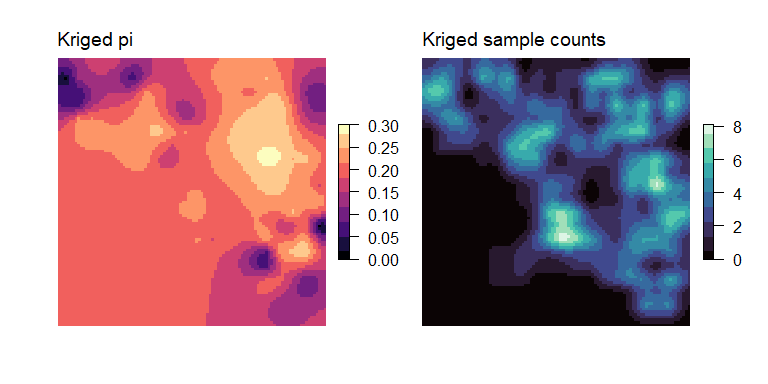
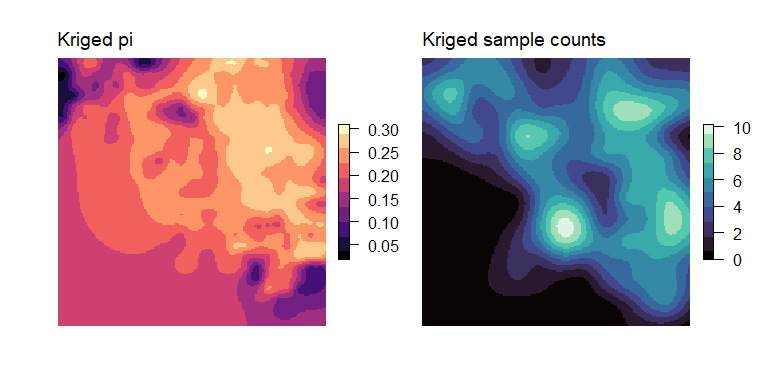
update README

diff --git a/README.md b/README.md
@@ -68,9 +68,10 @@ Next, the output from `window_gd()` can be interpolated using kriging
 with the `krig_gd()` function.
 
 ``` r
-# Krige results
-kgd <- krig_gd(wgd[["pi"]], lotr_lyr)
-kgd_counts <- krig_gd(wgd[["sample_count"]], lotr_lyr)
+# Krige genetic diversity (disaggregate grid to project across a smoother final surface)
+kgd <- krig_gd(wgd[["pi"]], lotr_lyr, disagg_grd = 2)
+# Krige counts (aggregate input raster to decrease computational time)
+kgd_counts <- krig_gd(wgd[["sample_count"]], lotr_lyr, agg_r = 2, disagg_grd = 2)
 
 par(mfrow = c(1,2), oma = rep(1,4), mar = rep(2,4))
 plot_gd(kgd, main = "Kriged pi", legend.width = 1.5)
